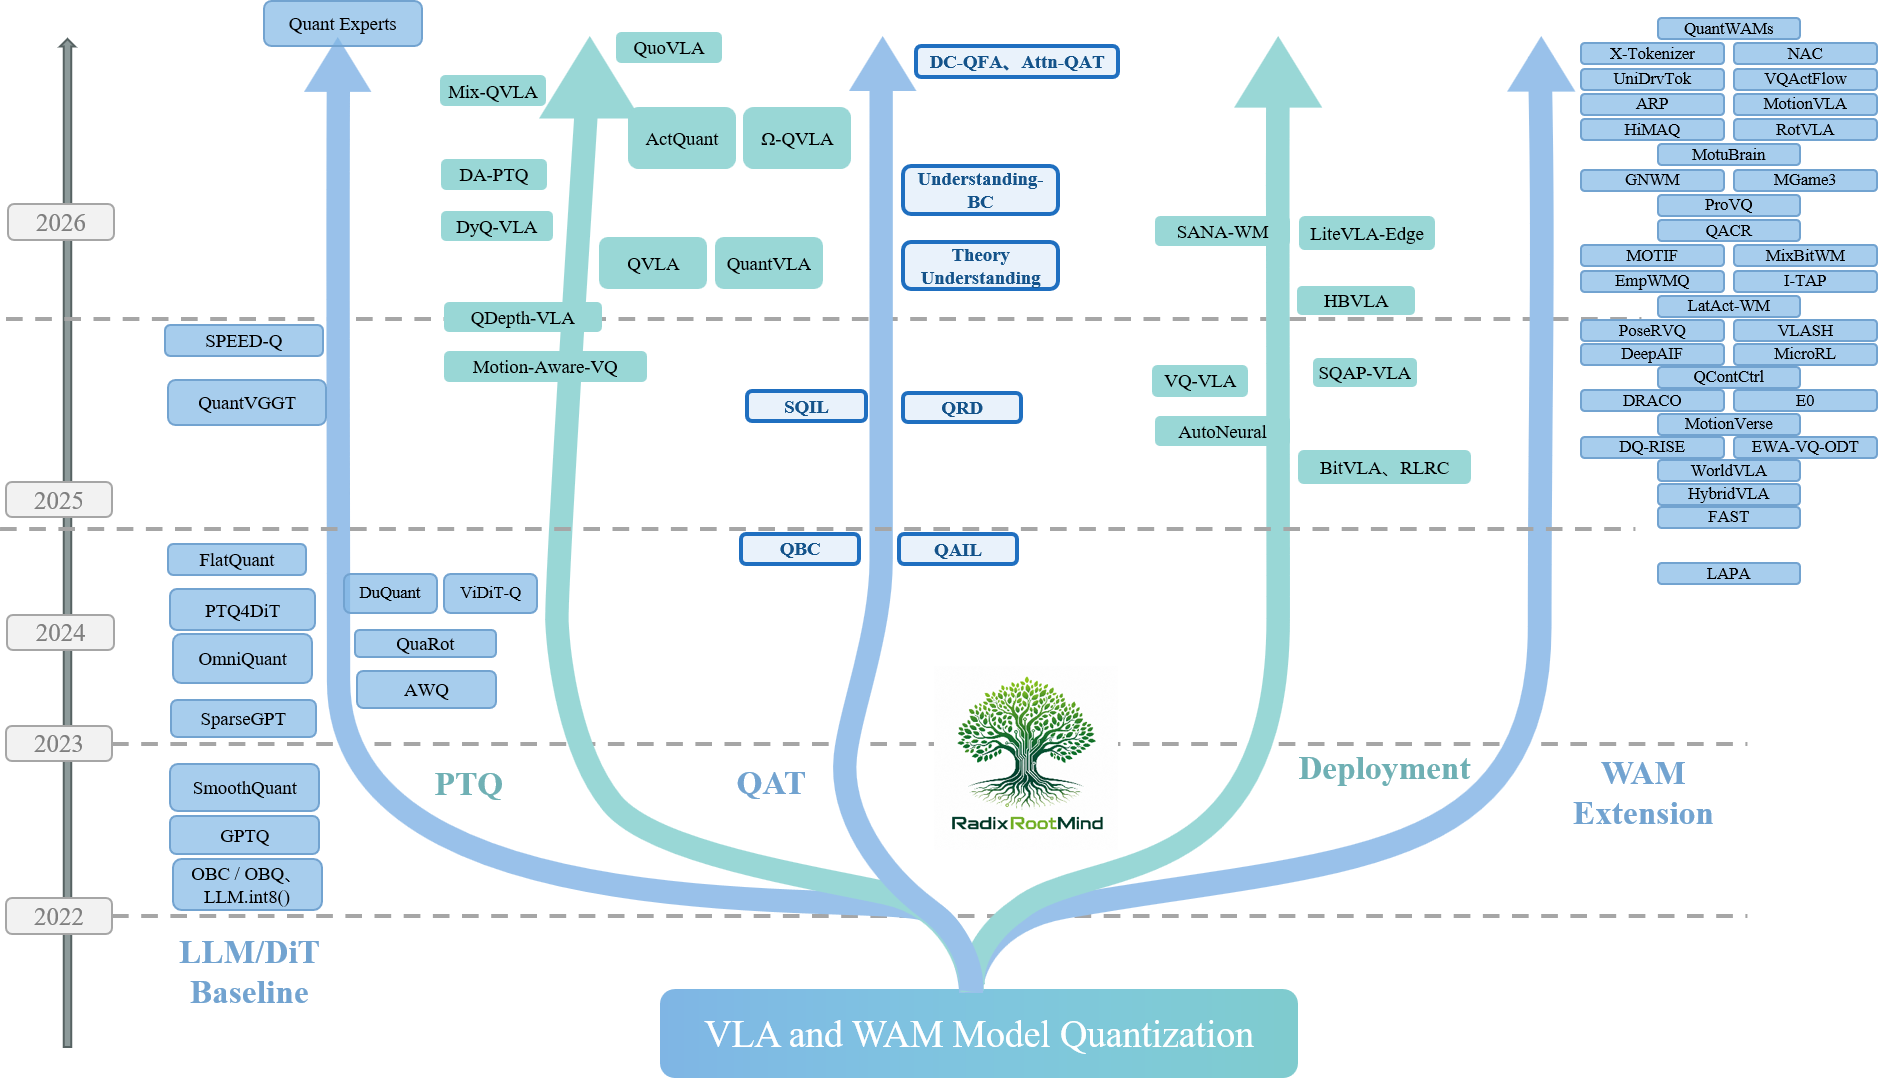
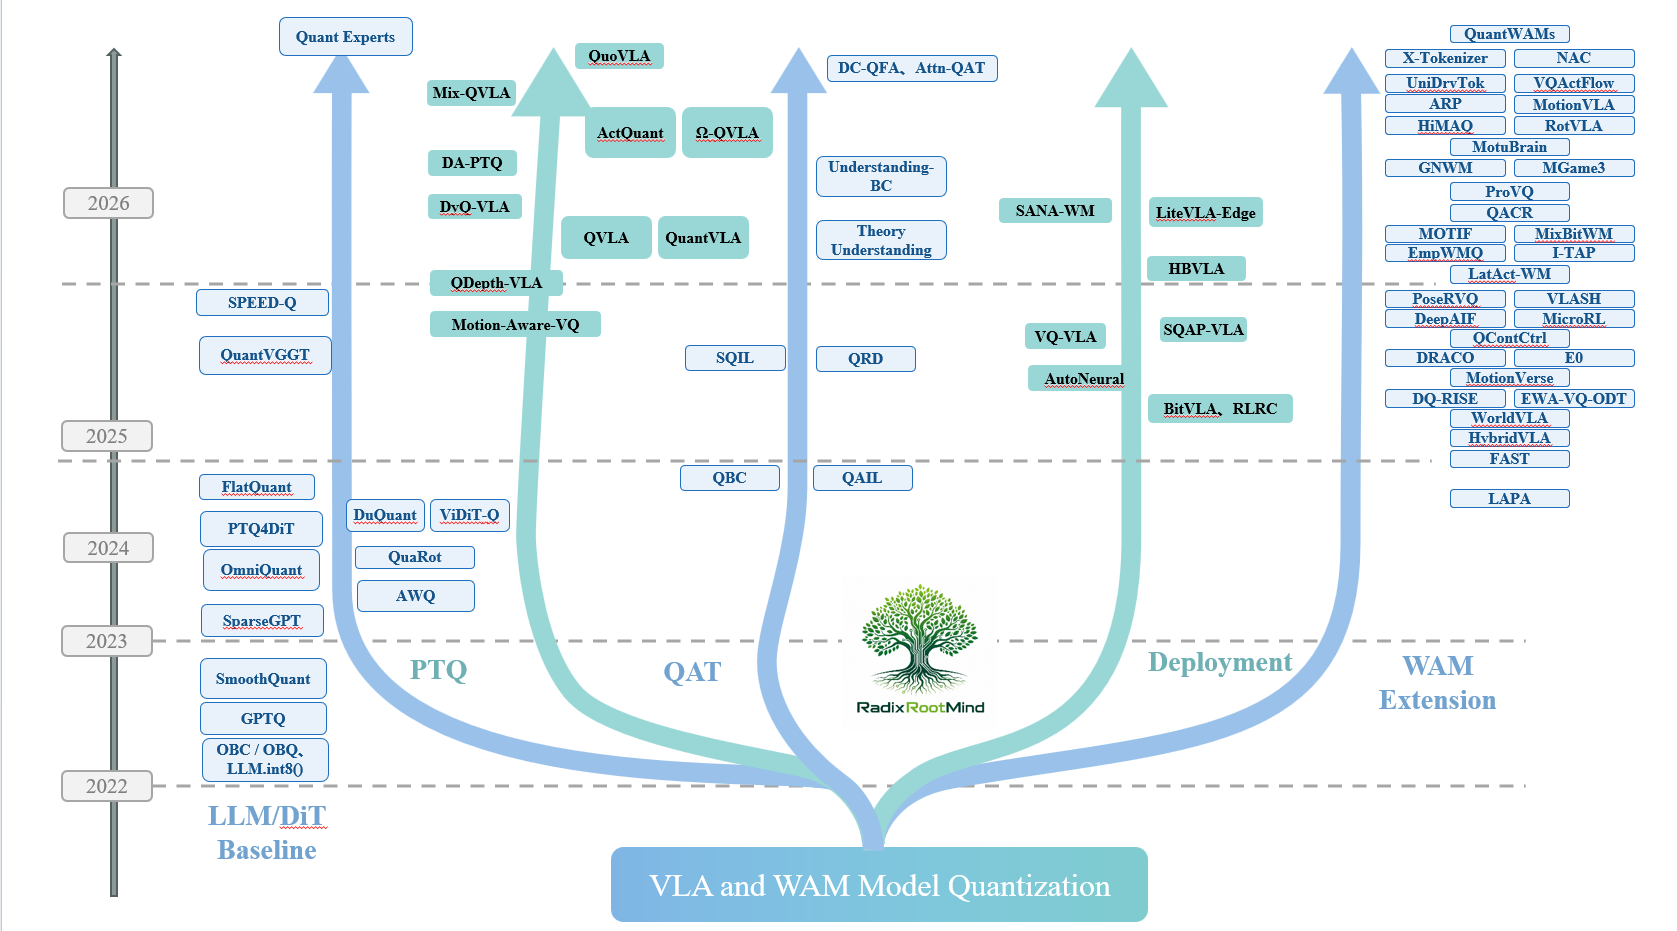
Update PTQ overview & teaser figures; fix inline-math rendering
- assets/ptq_overview.png: new 4-panel PTQ diagram (second-order
  reconstruction to embodied control)
- assets/teaser.png: updated 2022-2026 VLA/WAM quantization timeline tree
- README.md: wrap two inline-math expressions in GitHub protected
  delimiters ($`...`$) so the underscore-emphasis parser no longer
  strips subscripts (E_x, f_\theta, SR gap metric); brace all
  \hat\theta -> \hat{\theta}

Generated with dmxapi

Changed region(s): [[0.0, 0.0, 1.0, 1.0]]

diff --git a/README.md b/README.md
@@ -81,10 +81,10 @@ $$
 \mathcal{L}_{\text{VLA}} = \mathbb{E}_{(o,l,a)\sim\mathcal{D}}\big[\,\ell\big(\pi_\theta(o, l),\, a\big)\big],
 $$
 
-where $\ell$ is a cross-entropy over discretized action tokens for autoregressive VLAs (RT-2, OpenVLA) — the special case $-\log \pi_\theta(a \mid o, l)$ — or a flow-matching / diffusion denoising loss for continuous-action VLAs (π0, HybridVLA). Numerical PTQ for LLMs / DiTs picks a low-bit $\hat\theta$ by minimizing a differentiable **surrogate** — typically the layer-output error $\min_{\hat\theta}\mathbb{E}_x\lVert f_\theta(x)-f_{\hat\theta}(x)\rVert_2^2$. A robot, however, is judged by **executed behavior**. What we ultimately want is the highest closed-loop task success under a bit budget,
+where $\ell$ is a cross-entropy over discretized action tokens for autoregressive VLAs (RT-2, OpenVLA) — the special case $-\log \pi_\theta(a \mid o, l)$ — or a flow-matching / diffusion denoising loss for continuous-action VLAs (π0, HybridVLA). Numerical PTQ for LLMs / DiTs picks a low-bit $\hat{\theta}$ by minimizing a differentiable **surrogate** — typically the layer-output error $`\min_{\hat{\theta}}\mathbb{E}_x\lVert f_\theta(x)-f_{\hat{\theta}}(x)\rVert_2^2`$. A robot, however, is judged by **executed behavior**. What we ultimately want is the highest closed-loop task success under a bit budget,
 
 $$
-\max_{\hat\theta}\; \mathbb{E}_{\tau\sim\pi_{\hat\theta}}\big[\mathrm{Success}(\tau)\big]\qquad\text{s.t.}\qquad \bar b(\hat\theta)\le b,
+\max_{\hat{\theta}}\; \mathbb{E}_{\tau\sim\pi_{\hat{\theta}}}\big[\mathrm{Success}(\tau)\big]\qquad\text{s.t.}\qquad \bar b(\hat{\theta})\le b,
 $$
 
 but $\mathrm{Success}(\cdot)$ is non-differentiable and requires closed-loop rollouts, so methods optimize the surrogate and *hope* it transfers. Because each action changes future observations, a small per-layer error can compound across a rollout into trajectory failure — **low reconstruction error does not imply high task success.** Closing this surrogate-to-success gap is what the whole list is organized around.
@@ -415,7 +415,7 @@ The list separates five coupled concepts. Each row's exemplar is the canonical s
 | Metric | Measures | Definition / unit | Better |
 |---|---|---|:--:|
 | **Task success rate (SR)** | closed-loop task completion | fraction of successful episodes | ↑ |
-| **SR gap (ΔSR)** | success lost vs. full precision | $\mathrm{SR}_{\text{FP}} - \mathrm{SR}_{\text{quant}}$ (pp) | ↓ |
+| **SR gap (ΔSR)** | success lost vs. full precision | $`\mathrm{SR}_{\text{FP}} - \mathrm{SR}_{\text{quant}}`$ (pp) | ↓ |
 | **Action MSE / L1** | action fidelity vs. FP policy | mean $\lVert a_{\text{quant}} - a_{\text{FP}}\rVert$ | ↓ |
 | **Latency** | per-step inference time | ms / action | ↓ |
 | **Throughput** | serving rate | actions or tokens / s | ↑ |
